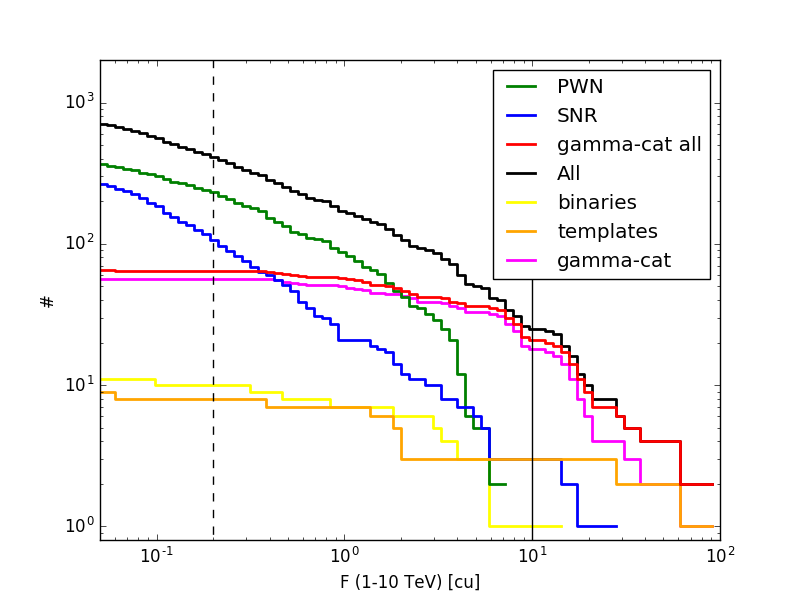
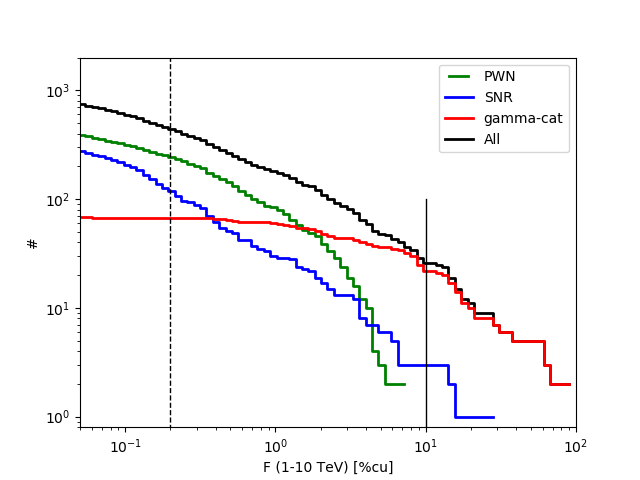
Update plot_logN_logS_gammalib.py and logN_logS_gammalib.png for Roberta

diff --git a/sky_model_checks/plot_logN_logS_gammalib.py b/sky_model_checks/plot_logN_logS_gammalib.py
@@ -46,11 +46,11 @@ def make_plot(num_plot, color_scale, fluxes_cu,fluxes_cu_2,fluxes_cu_3,fluxes_cu
 
     print('y: ', y)
 
-    plt.step(bins[::-1], y, color=color_scale[0], lw=2)
+    # plt.step(bins[::-1], y, color=color_scale[0], lw=2)
     if num_plot > 1:
         hist_2, bins_edges_2 = np.histogram(fluxes_cu_2, bins=bins)
         y_2 = np.insert(hist_2[::-1].astype('float64').cumsum(), 0, 0.01)
-        plt.step(bins[::-1], y_2, color=color_scale[1], lw=2)
+        # plt.step(bins[::-1], y_2, color=color_scale[1], lw=2)
 
     if num_plot > 2:
         hist_3, bins_edges_3 = np.histogram(fluxes_cu_3, bins=bins)
@@ -63,7 +63,7 @@ def make_plot(num_plot, color_scale, fluxes_cu,fluxes_cu_2,fluxes_cu_3,fluxes_cu
     if num_plot > 4:
         hist_5, bins_edges_5 = np.histogram(fluxes_cu_5, bins=bins)
         y_5 = np.insert(hist_5[::-1].astype('float64').cumsum(), 0, 0.01)
-        plt.step(bins[::-1], y_5, color=color_scale[4], lw=2)
+        # plt.step(bins[::-1], y_5, color=color_scale[4], lw=2)
 
 
 
@@ -90,7 +90,7 @@ def make_plot(num_plot, color_scale, fluxes_cu,fluxes_cu_2,fluxes_cu_3,fluxes_cu
     plt.ylim(0.8, 2000)
     plt.xlim(0.05, 100)
     plt.ylabel('#')
-    plt.xlabel('F (1-10 TeV) [cu]')
+    plt.xlabel('F (1-10 TeV) [%cu]')
 
     plt.plot([10, 10], [flux_min, 100], 'k-', lw=1, color='black')
     plt.plot([0.2, 0.2], [flux_min, 5000], 'k--', lw=1, color='black')
@@ -104,11 +104,11 @@ def make_plot(num_plot, color_scale, fluxes_cu,fluxes_cu_2,fluxes_cu_3,fluxes_cu
 
     line1, = plt.plot([100000, 10000, 10000], linestyle='-', lw=2, label='PWN', color='green')
     line2, = plt.plot([1000, 10000, 10000], linestyle='-', lw=2, label='SNR', color='blue')
-    line3, = plt.plot([1000, 10000, 10000], linestyle='-', lw=2, label='gamma-cat all', color='red')
+    line3, = plt.plot([1000, 10000, 10000], linestyle='-', lw=2, label='gamma-cat', color='red')
     line4, = plt.plot([1000, 10000, 10000], linestyle='-', lw=2, label='All', color='black')
-    line5, = plt.plot([1000, 10000, 10000], linestyle='-', lw=2, label='binaries', color='yellow')
-    line6, = plt.plot([1000, 10000, 10000], linestyle='-', lw=2, label='templates', color='orange')
-    line7, = plt.plot([1000, 10000, 10000], linestyle='-', lw=2, label='gamma-cat', color='magenta')
+    # line5, = plt.plot([1000, 10000, 10000], linestyle='-', lw=2, label='binaries', color='yellow')
+    # line6, = plt.plot([1000, 10000, 10000], linestyle='-', lw=2, label='templates', color='orange')
+    # line7, = plt.plot([1000, 10000, 10000], linestyle='-', lw=2, label='gamma-cat', color='magenta')
 
     plt.legend(handler_map={line1: HandlerLine2D(numpoints=8)})
 
